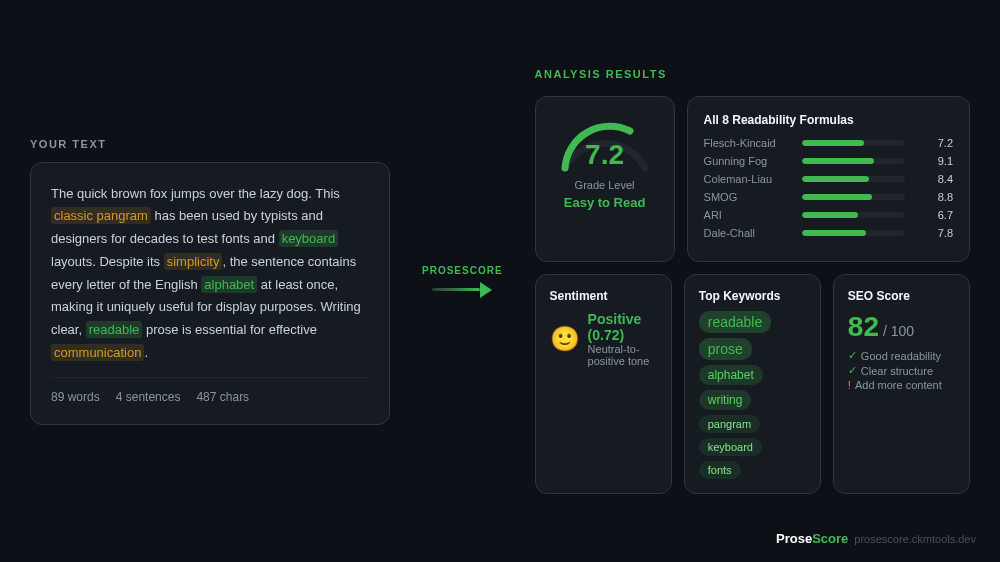
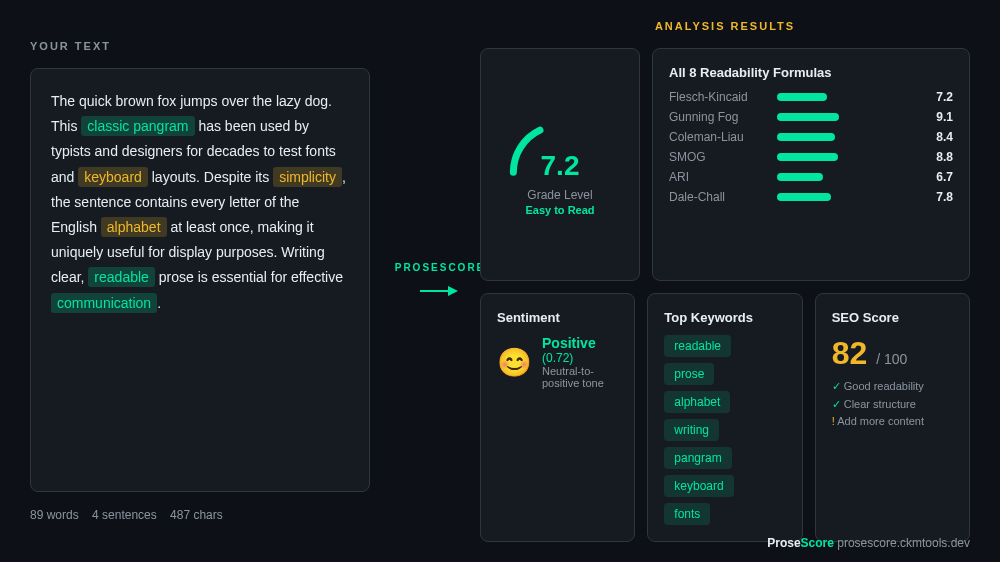
Fix gauge visual bug: remove gray background arc
Remove the gray (#30363D) track arc behind the green value arc in:
- favicon.svg: delete background track path
- index.html: delete background track path in score meter SVG
- assets/analysis-preview.png: re-render with clean gauge

The gauge now shows only the green arc on a clean dark background.

diff --git a/index.html b/index.html
@@ -101,7 +101,6 @@
         <div class="score-card">
           <div class="score-meter" id="score-meter">
             <svg viewBox="0 0 200 120" class="meter-svg" aria-hidden="true">
-              <path d="M20 100 A80 80 0 0 1 180 100" fill="none" stroke="var(--border)" stroke-width="12" stroke-linecap="round"/>
               <path d="M20 100 A80 80 0 0 1 180 100" fill="none" stroke="var(--color-primary)" stroke-width="12" stroke-linecap="round" id="meter-fill" stroke-dasharray="251" stroke-dashoffset="251"/>
             </svg>
             <div class="score-value" id="score-value">--</div>
